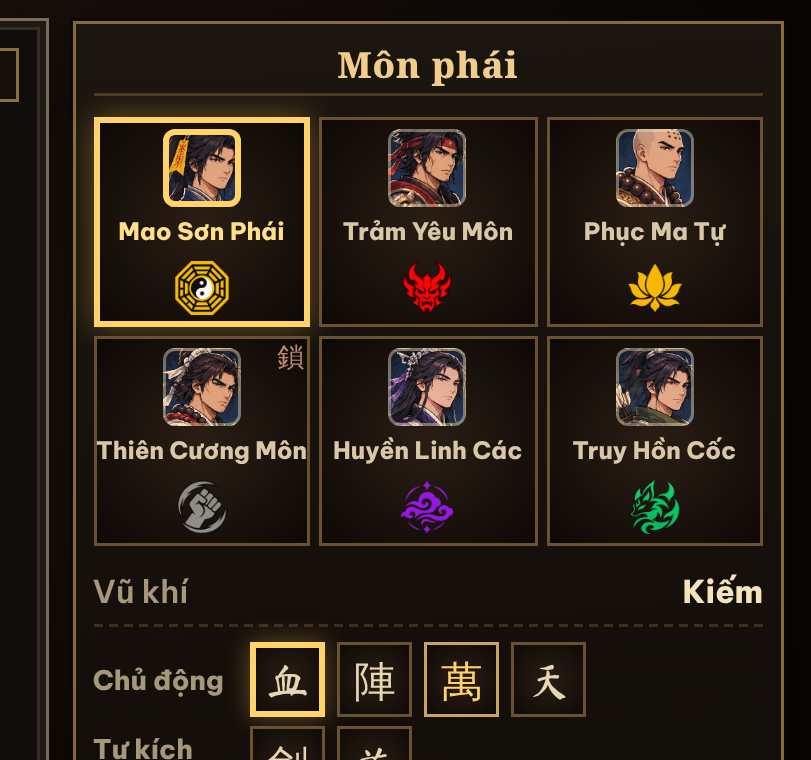
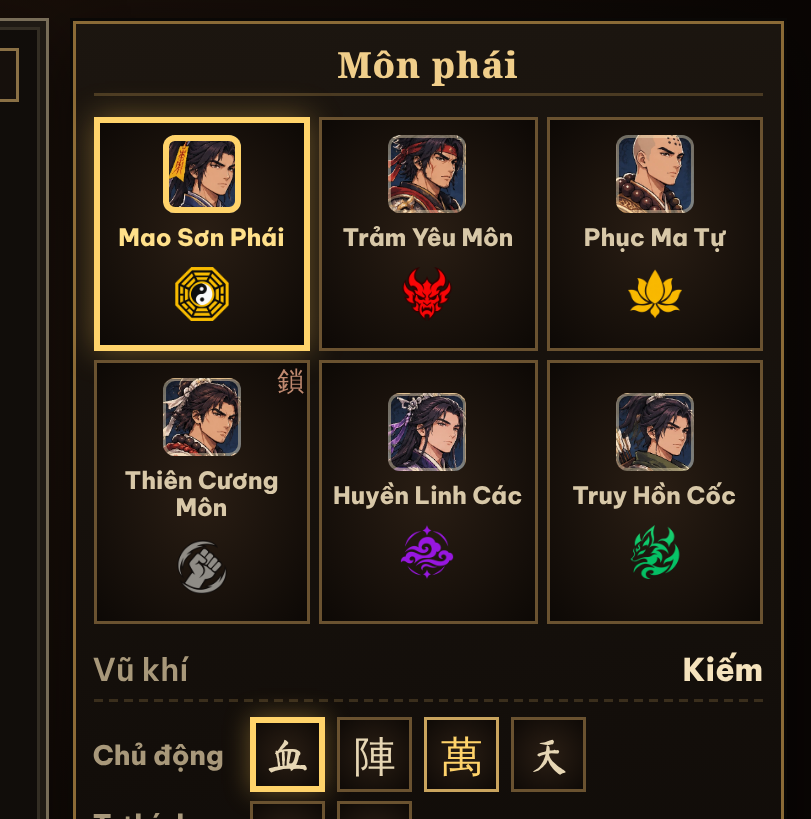
Đao dùng nhân vật master; đệm viền thẻ phái; bắt đầu tạo động tác đấm Song Quyền
Claude-Session: https://claude.ai/code/session_01MYwTvK6dULdzXHFPeBSgyd

diff --git a/game/index.html b/game/index.html
@@ -1133,7 +1133,7 @@ p{margin:0}.dim{color:var(--dim)}.sm{font-size:13px}
 /* ô đang chọn: cùng kích thước với ô khác, vòng sáng nằm TRONG ô (không phình ra ngoài) */
 .cxavatar.sect{border-color:rgba(255,214,140,.75);image-rendering:auto}
 .cxsect{grid-template-columns:repeat(3,minmax(0,1fr))!important;gap:5px}
-.cxsb{align-items:center;justify-content:center;align-content:center;text-align:center;min-width:0;gap:2px;height:auto}.cxsect{align-items:stretch}.cxsect .cxsb{justify-content:center;padding-top:4px;padding-bottom:4px;gap:4px}.cxsb .sav{width:100%;max-width:56px;aspect-ratio:1;border-radius:4px;background-size:cover;background-position:50% 8%;box-shadow:inset 0 0 0 1px rgba(255,236,190,.4);image-rendering:auto}
+.cxsb{align-items:center;justify-content:center;align-content:center;text-align:center;min-width:0;gap:2px;height:auto}.cxsect{align-items:stretch}.cxsect .cxsb{justify-content:center;padding:6px 3px 8px;gap:4px;overflow:hidden}.cxsb .sic{margin-bottom:2px}.cxsb .sav{width:100%;max-width:56px;aspect-ratio:1;border-radius:4px;background-size:cover;background-position:50% 8%;box-shadow:inset 0 0 0 1px rgba(255,236,190,.4);image-rendering:auto}
 .cxsb b{font-size:9.5px;line-height:1.15;white-space:normal;min-height:0;margin:0;display:block;letter-spacing:0}.cxsb small{display:block;font:600 9.5px "Be Vietnam Pro",sans-serif;color:#a8987a}.cxsb .sic{display:flex;justify-content:center;align-items:center;height:18px;margin-top:1px}.cxsb .sic img{flex:none;min-width:18px;max-width:none;width:18px;height:18px;display:block;image-rendering:auto}/* icon phái: ảnh 128x128 (vector gốc của chủ game, đã thu bằng lọc mịn, bỏ nhiễu viền), hiển thị 36px; mỗi thẻ 1 icon */
 .cxsb.on .sav{box-shadow:inset 0 0 0 2px #ffd36a}
 @media (max-height:680px){#crWInfo{display:none}.cxR .cxinfo div:nth-child(3){display:none}}
@@ -1793,7 +1793,7 @@ for(const id in CHM){const m=CHM[id];m.ay-=2;if(!m.anims.dash&&m.anims.run){cons
  h.img.onload=()=>{if(id.startsWith('god_'))setTimeout(()=>{try{paintGodIcon();if(!$('#menu').hidden)buildMenu()}catch(e){}},60);const c=document.createElement('canvas');c.width=h.img.width;c.height=h.img.height;const g=c.getContext('2d');g.drawImage(h.img,0,0);g.globalCompositeOperation='source-in';g.fillStyle='#fff';g.fillRect(0,0,c.width,c.height);h.flash=c;{const d=document.createElement('canvas');d.width=c.width;d.height=c.height;const q=d.getContext('2d');q.drawImage(h.img,0,0);q.globalCompositeOperation='source-in';q.fillStyle='rgba(14,20,30,.85)';q.fillRect(0,0,d.width,d.height);h.dark=d}{const t=document.createElement('canvas');t.width=c.width;t.height=c.height;const q=t.getContext('2d');q.drawImage(h.img,0,0);q.globalCompositeOperation='source-atop';q.fillStyle='rgba(255,214,120,.62)';q.fillRect(0,0,t.width,t.height);h.tint=t}h.ok=true;if(!G&&id.startsWith('hero')){buildMenu();paintMap();lobbyPics()}};
  h.img.src=m.src;CH[id]=h;setTimeout(()=>preDecode(h.img),0)}
 let HERO=CH.hero_nam;
-const useHero=(gender,weapon)=>{const ok_=outfitKey(),ho=ok_&&CH['hero_'+gender+'_'+ok_],h=ho&&ho.ok?ho:CH['hero_'+gender];if((weapon==='kiem'||weapon==='thuong'||weapon==='quyen')&&h&&h.ok){HERO=h;return true}return false};
+const useHero=(gender,weapon)=>{const ok_=outfitKey(),ho=ok_&&CH['hero_'+gender+'_'+ok_],h=ho&&ho.ok?ho:CH['hero_'+gender];if((weapon==='kiem'||weapon==='thuong'||weapon==='quyen'||weapon==='dao')&&h&&h.ok){HERO=h;return true}/* 24/11: Đao dùng nhân vật pixel master + lớp đao (trước đó rơi về nhân vật vector cũ, lệch phong cách) */return false};
 function hqSheet(h,flash){const k=flash&&h.flash?'hqf':'hq';let Q=h[k];if(Q)return Q;const src=flash&&h.flash?h.flash:h.img,K=h.meta.hq,w=src.naturalWidth||src.width,hh=src.naturalHeight||src.height;if(!w||!hh)return null;Q=document.createElement('canvas');Q.width=w*K;Q.height=hh*K;const g=Q.getContext('2d');g.imageSmoothingEnabled=false;g.drawImage(src,0,0,Q.width,Q.height);h[k]=Q;return Q}
 function drawSpr(c,h,an,fi,x,y,f,sc,flash,alpha){const M=h.meta,A=M.anims[an]||M.anims.idle||M.anims.run,fr=A.f[Math.max(0,Math.min(fi,A.f.length-1))];c.save();c.imageSmoothingEnabled=false;c.translate(Math.round(x),Math.round(y));c.scale(f*sc,sc);if(alpha!=null)c.globalAlpha*=alpha;
  const Q=M.hq&&!_hqOff?hqSheet(h,flash):null;

diff --git a/cong_cu/claude/rec_lib.js b/cong_cu/claude/rec_lib.js
@@ -4,7 +4,7 @@ exports.open=async(ROOT,{gender='nam',forge=6,w=1280,h=720,mobile=false,seed=tru
  const b=await chromium.launch();const ctx=await b.newContext({viewport:{width:w,height:h},isMobile:mobile,hasTouch:mobile,deviceScaleFactor:dsf});const pg=await ctx.newPage();
  const errs=[];pg.on('pageerror',e=>errs.push(e.message));pg.on('console',m=>{if(m.type()==='error')errs.push('console:'+m.text())});
  await pg.route('http://game.test/**',r=>{const u=new URL(r.request().url());let f=path.join(ROOT,decodeURIComponent(u.pathname));if(u.pathname==='/')f=path.join(ROOT,'index.html');
-  if(!fs.existsSync(f))return r.fulfill({status:404,body:''});const ext=path.extname(f);let body=fs.readFileSync(f);if(ext==='.html')body=body.toString().replace('window.TDST={hit,','window.TDST={spawnEnemy,ET:()=>ET,GG:()=>G,hit,');
+  if(!fs.existsSync(f))return r.fulfill({status:404,body:''});const ext=path.extname(f);let body=fs.readFileSync(f);if(ext==='.html')body=body.toString().replace('window.TDST={hit,','window.TDST={spawnEnemy,CH,ET:()=>ET,GG:()=>G,hit,');
   r.fulfill({body,contentType:{'.html':'text/html','.png':'image/png','.jpg':'image/jpeg','.mp3':'audio/mpeg','.ogg':'audio/ogg'}[ext]||'application/octet-stream'})});
  await pg.addInitScript(()=>{let vt=0;const q=[];performance.now=()=>vt;window.requestAnimationFrame=cb=>{q.push(cb);return q.length};window.cancelAnimationFrame=()=>{};
   window.__step=ms=>{vt+=ms;const cbs=q.splice(0);for(const cb of cbs)cb(vt)};window.__auto=setInterval(()=>__step(1000/60),16)});

diff --git a/nguon/pixellab/quyen/gen_qy.py b/nguon/pixellab/quyen/gen_qy.py
@@ -1,0 +1,24 @@
+import json,base64,time,importlib.util,sys,os
+spec=importlib.util.spec_from_file_location('pl','/home/user/HoaThan/cong_cu/claude/pl.py');pl=importlib.util.module_from_spec(spec);spec.loader.exec_module(pl)
+K="A young martial artist with bare empty hands (no weapon), side view facing right, same character, same colors, outfit and size, same pixel art style, feet stay planted. "
+A=[('a',8,K+"Throws a quick straight right-hand punch forward to the right, the fist extends fully with the arm straight, then pulls the arm back to the guard pose."),
+('b',8,K+"Twists the hips and throws a strong hook with the other fist sweeping across forward to the right, then returns to the guard pose."),
+('c',8,K+"Crouches slightly then drives a heavy rising uppercut with the fist forward and upward to the right while stepping forward, finishing standing with the fist raised, then lowers it.")]
+gs=sys.argv[1:] or ['nam','nu']
+for g in gs:
+    b64=base64.b64encode(open(f'quyen/in/{g}_idle.png','rb').read()).decode()
+    for k,n,d in A:
+        if os.path.exists(f'quyen/raw/{g}_{k}_00.png'):continue
+        try:
+            j=pl.req('POST','/animate-with-text-v3',{"first_frame":{"type":"base64","base64":b64},"last_frame":{"type":"base64","base64":b64},"action":d,"frame_count":n,"seed":21,"no_background":True,"enhance_prompt":False})
+            jid=j.get('background_job_id');t0=time.time()
+            while jid and time.time()-t0<500:
+                time.sleep(8);r=pl.req('GET','/background-jobs/'+jid)
+                if r['status']=='completed':break
+                if r['status']=='failed':raise Exception(str(r)[:300])
+            imgs=r['last_response'].get('images',[])
+            for i,x in enumerate(imgs):
+                x=x.get('base64') if isinstance(x,dict) else x
+                open(f'quyen/raw/{g}_{k}_{i:02d}.png','wb').write(base64.b64decode(x.split(',')[-1]))
+            print(g,k,len(imgs),r['last_response'].get('usage') or j.get('usage'),flush=True)
+        except Exception as e:print(g,k,'ERR',e,flush=True)

diff --git a/CLAUDE.md b/CLAUDE.md
@@ -420,3 +420,5 @@ Chủ game gửi ảnh sảnh iPhone ngang (~664×307, trong trình duyệt nên
 - (24/11 đêm, cuối) **Thẻ phái làm lại cho GỌN ĐẸP (chủ game chê rối):** avatar vuông chiếm hết bề ngang thẻ (`aspect-ratio:1`, `background-position:50% 10%` thấy đủ đầu + vai), icon phái thành HUY HIỆU TRÒN nhỏ (18px + viền, nền tối mờ) ở góc dưới-phải avatar (`.sbg` nằm trong `.sav`), dưới avatar chỉ còn TÊN phái. Bỏ hàng icon riêng (`.sic` ẩn) và chữ vũ khí (còn trong `title`/`.sr` ẩn). Kiểm 667/844/932/1100 không tràn.
 - (24/11 đêm, cuối) **HOÀN NGUYÊN thẻ phái về bố cục cũ theo lệnh chủ game ("giữ nguyên như cũ chỉ thu nhỏ icon"):** avatar nhỏ (max 56px, cắt 8%), tên, hàng icon dưới; CHỈ icon thu nhỏ 36→26 px. Bản huy hiệu tròn ở góc avatar và avatar rộng đã bỏ. Kiểm 667/844/932/1100 không tràn.
 - (24/11 đêm, cuối) **Thẻ phái cân bằng:** icon thu nhỏ 26→18 px; thẻ căn giữa (avatar, tên, icon dồn sát nhau, `gap:4px`), tên chữ 9,5px (màn thấp 8px) tự co theo số dòng (bỏ chiều cao cố định). Kiểm 667/844/932/1100 không tràn.
+- (24/11 đêm, cuối) **Đao: dùng nhân vật pixel master thay nhân vật vector cũ** (`useHero` thêm `dao`): trước đó phái Trảm Yêu hiện hình vector vẽ bằng code, lệch phong cách master. Giờ Đao = thân master (khung A/B đánh kiếm) + lớp đao `daoquy` gắn socket kiếm + VFX `dq_*` có sẵn; đã chạy thử trong trận (chém, vệt lửa, số sát thương). Chưa làm khung đánh riêng cho Đao (dùng chung khung kiếm). **Trượng/Quạt/Cung vẫn dùng hình vector cũ** (Claude khác phụ trách, chưa đổi). Thẻ phái thêm đệm `padding:6px 3px 8px` để icon không chạm viền. Chủ game dặn: "làm animation Đao + Song Quyền, tao đi ngủ, tự làm theo cách hợp lý nhất".
+- Song Quyền: đang tạo 3 động tác đấm (A thẳng, B móc, C móc ngược) bằng PixelLab `animate-with-text-v3` từ khung đứng của sheet `hero_{nam,nu}_ns.png`, script `nguon/pixellab/quyen/gen_qy.py`, khung thô `quyen/raw/`.
